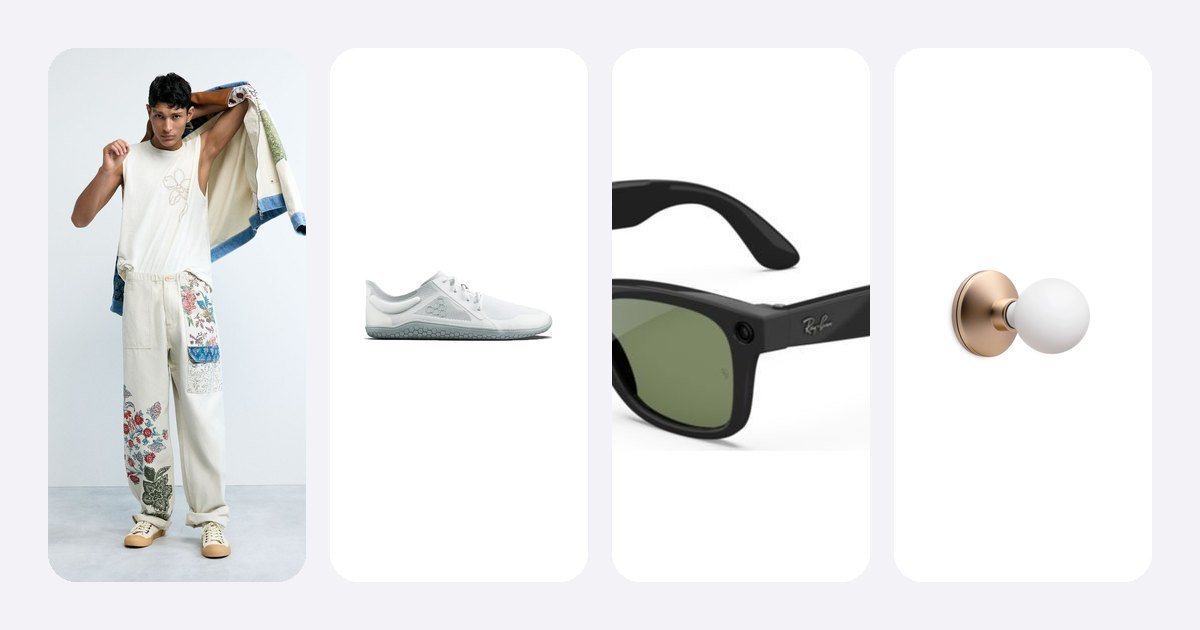
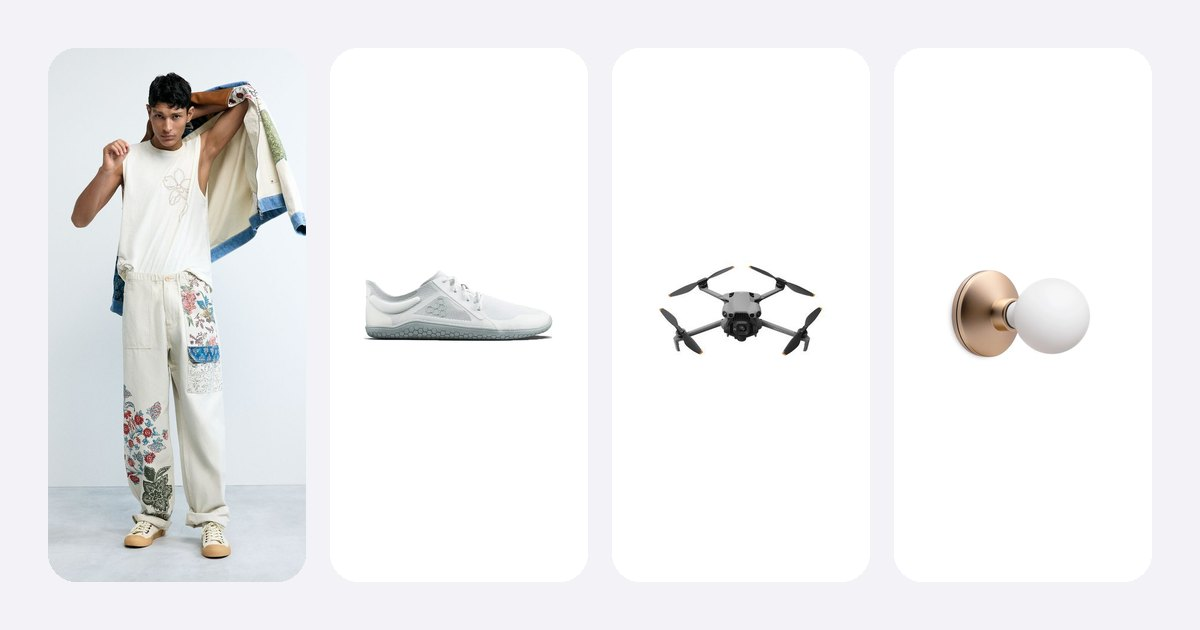
Wish list: keep photos when a check fails, restore DJI photo, run for chosen photos
Claude-Session: https://claude.ai/code/session_01KiuSKrJmAozsj4y26JXZoX

Changed region(s): [[0.4933, 0.2714, 0.74, 0.7238]]

diff --git a/wishlist/wishes.js b/wishlist/wishes.js
@@ -29,7 +29,7 @@ window.WISHES = [
   { id: "red-wing-8864", cat: "footwear", brand: "Red Wing", name: "Classic Moc Toe Boots 8864 GORE-TEX, Russet Taos", note: "Unique and classic. Red Wing London no longer lists it, so this links to Son of a Stag in London.", price: "£349", url: "https://sonofastag.com/products/red-wing-8864-6-inch-gore-tex-moc-toe-boots-oro-russet-taos" },
 
   // Gadgets
-  { id: "dji-mini-5-pro", cat: "gadget", brand: "DJI", name: "DJI Mini 5 Pro", note: "The full combo with the smart remote. £1,129 with a 256 GB SD card and the 2-year care plan.", price: "£979", url: "https://www.dji.com/uk/mini-5-pro" },
+  { id: "dji-mini-5-pro", cat: "gadget", brand: "DJI", name: "DJI Mini 5 Pro", note: "The full combo with the smart remote. £1,129 with a 256 GB SD card and the 2-year care plan.", price: "£979", url: "https://www.dji.com/uk/mini-5-pro", image: "https://www-cdn.djiits.com/cms/uploads/3462d29fa23cf5d29fce9171fb2b6b9d@374*374.png" },
   { id: "ray-ban-meta", cat: "gadget", brand: "Ray-Ban Meta", name: "Ray-Ban Meta glasses", price: "£400+", url: "https://www.ray-ban.com/uk/ray-ban-meta-ai-glasses", photoFrom: "https://business.currys.co.uk/catalogue/cameras-smart-tech/smart-tech/smart-toys-and-gadgets/ray-ban-meta-meta-wayfarer-gen-2-glasses-shiny-black-with-green-lenses/N740821W" },
   { id: "lumie-sad-lamp", cat: "gadget", brand: "Lumie", name: "Task SAD lamp, golden yellow", price: "£279", url: "https://www.lumie.com/products/task-golden-yellow" },
   { id: "vinyl-player", cat: "gadget", name: "A really good vinyl player", note: "Top quality. One with a speaker is great, or Bluetooth to a Sonos is enough." },

diff --git a/wishlist/images.js b/wishlist/images.js
@@ -49,6 +49,14 @@ window.WISH_IMAGES = {
     "src": "img/desigual-printed-jeans.jpg",
     "w": 800
   },
+  "dji-mini-5-pro": {
+    "bg": "#ffffff",
+    "h": 374,
+    "plain": true,
+    "small": "img/dji-mini-5-pro-s.jpg",
+    "src": "img/dji-mini-5-pro.jpg",
+    "w": 374
+  },
   "ecco-grainer": {
     "bg": "#ffffff",
     "h": 800,

diff --git a/wishlist/tools/fetch_images.py b/wishlist/tools/fetch_images.py
@@ -15,7 +15,8 @@ wishlist/img/<id>.jpg (up to 1200 px) and wishlist/img/<id>-s.jpg (480 px, for s
   3. the page's product data or preview picture (og:image), unless it is a logo;
   4. in a real browser (needs Playwright), the largest photo near the top of the page.
 It asks the shop for a larger copy of each photo where the photo's address has a size in it.
-A link that no longer exists, or now goes to a different product, is reported and gets no photo.
+A link that seems to no longer exist, or now goes to a different product, is reported and gets no new photo;
+any photo it already has is kept, since shops can send GitHub's US servers somewhere else.
 
 Outputs: wishlist/images.js (each photo's size and edge colour, so the page can frame it),
 wishlist/status.js (with --check: when each link was checked, whether it works, today's price),
@@ -453,11 +454,7 @@ def main():
         except Exception as err:  # keep going; report every failure at the end
             report.append("- %s: no photo (%s)" % (e.get("name") or e.get("brand"), str(err)[:160]))
             print("failed", id_, "-", err)
-            if isinstance(err, Gone) and have:
-                for suffix in ("", "-s"):  # a photo of some other page is worse than none
-                    p = os.path.join(IMG_DIR, id_ + suffix + ".jpg")
-                    if os.path.exists(p):
-                        os.remove(p)
+            # An existing photo is kept: a shop can turn GitHub's US servers away from a page that still exists.
         time.sleep(3)
     if browser:
         browser.close()
